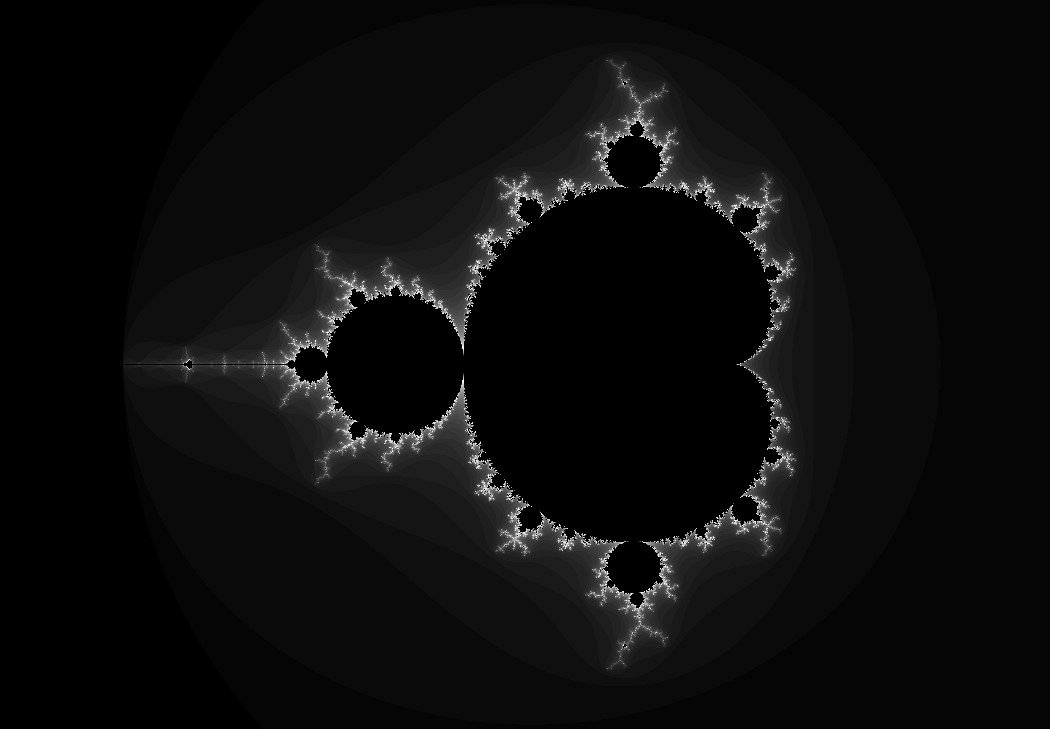
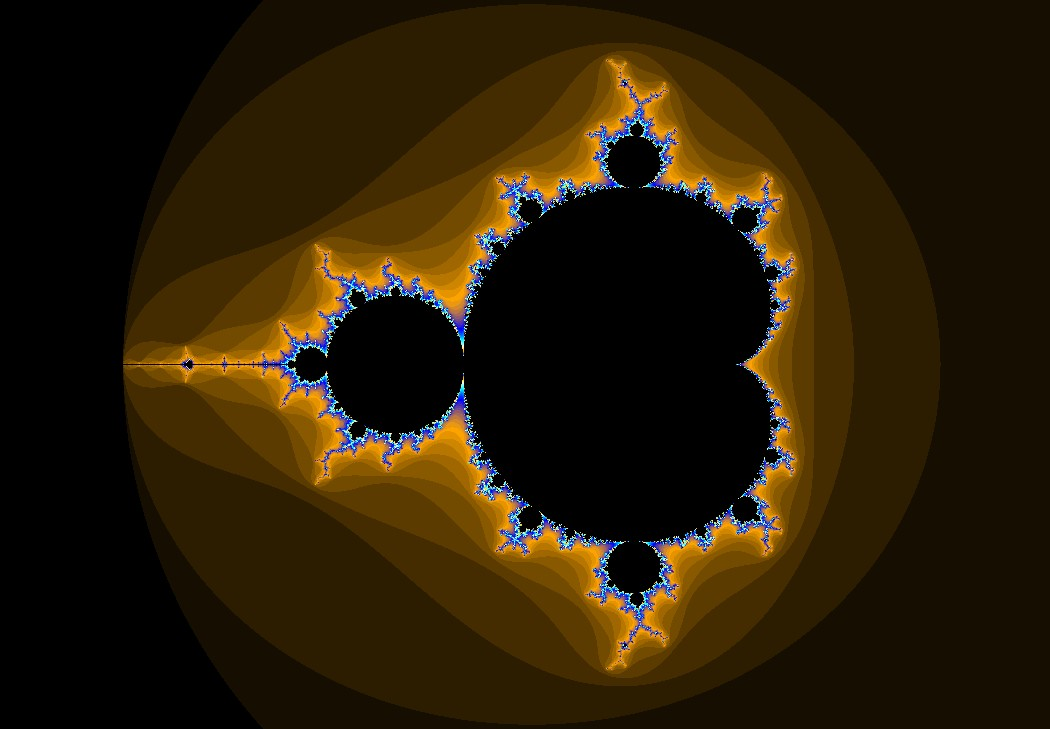
Change color scheme

diff --git a/MainWindow.xaml.cs b/MainWindow.xaml.cs
@@ -35,10 +35,6 @@ namespace FractalViewer {
 
         private int newImageMaxSide = 1000;
 
-        Color backgroundColor = Colors.Black;
-        Color middleColor = Colors.White;
-        Color setColor = Colors.Black;
-
         public MainWindow() {
             InitializeComponent();
 
@@ -175,7 +171,7 @@ namespace FractalViewer {
                         iterations++;
                     }
 
-                    Color fractalColor = CalculateFractalColor(iterations, maxIterations);
+                    Color fractalColor = GetColor(iterations, maxIterations);
 
                     SetPixelColor(writableBitmap, i, j, fractalColor);
 
@@ -195,22 +191,49 @@ namespace FractalViewer {
 
             return ConvertWriteableBitmapToBitmapImage(writableBitmap);
         }
-        private Color CalculateFractalColor(int iterations, int maxIterations) {
-
-            double factor = (double)iterations / maxIterations;
-
-            Color interpolatedColor;
-
-            if (factor < 0.5) {
-                interpolatedColor = InterpolateColors(backgroundColor, middleColor, factor * 2);
-            }
-            else {
-                interpolatedColor = InterpolateColors(middleColor, setColor, (factor - 0.5) * 2);
+        public static Color GetColor(int iteration, int maxIterations) {
+            if (iteration == maxIterations) {
+                return Colors.Black;
             }
 
-            return interpolatedColor;
+            double t = (double)iteration / maxIterations;
+
+            //byte r = (byte)(9 * (1 - t) * t * t * t * 255);
+            //byte g = (byte)(15 * (1 - t) * (1 - t) * t * t * 255);
+            //byte b = (byte)(9 * (1 - t) * (1 - t) * (1 - t) * t * 255);
+
+            var colors = new[]
+            {
+                Colors.Black,
+
+                Colors.Orange,
+                Colors.Blue,
+                Colors.Cyan,
+                Colors.Snow,
+                Colors.Gold,
+                Colors.Orange,
+                Colors.Blue,
+                Colors.Cyan,
+                Colors.Snow,
+            };
+
+            for (int i = 0; i < colors.Length - 1; i++) {
+                if (t >= (double)i/(colors.Length - 1) && t <= (double)(i + 1) / (colors.Length - 1)) {
+
+                    double range = (double)(i + 1) / (colors.Length - 1) - (double)(i) / (colors.Length - 1);
+                    double localFactor = (t - (double)(i) / (colors.Length - 1)) / range;
+
+                    byte r = (byte)(colors[i].R + localFactor * (colors[i + 1].R - colors[i].R));
+                    byte g = (byte)(colors[i].G + localFactor * (colors[i + 1].G - colors[i].G));
+                    byte b = (byte)(colors[i].B + localFactor * (colors[i + 1].B - colors[i].B));
+
+                    return Color.FromRgb(r, g, b);
+                }
+
+            }
+
+            return Colors.Black;
         }
-
         private Color InterpolateColors(Color startColor, Color endColor, double factor) {
             byte r = InterpolateColorComponent(startColor.R, endColor.R, factor);
             byte g = InterpolateColorComponent(startColor.G, endColor.G, factor);

diff --git a/Classes/Complex.cs b/Classes/Complex.cs
@@ -18,6 +18,9 @@ namespace FractalViewer.Classes
         public static Complex operator +(Complex a, Complex b) {
             return new Complex(a.Real + b.Real, a.Imaginary + b.Imaginary);
         }
+        public static Complex operator -(Complex a, Complex b) {
+            return new Complex(a.Real - b.Real, a.Imaginary - b.Imaginary);
+        }
         public static Complex operator *(Complex a, Complex b) {
             return new Complex(a.Real * b.Real - a.Imaginary * b.Imaginary, a.Real * b.Imaginary + a.Imaginary * b.Real);
         }

diff --git a/README.md b/README.md
@@ -6,4 +6,4 @@ Mandelbrot set `Z^2 + C` is generated by default. You can change formula in the 
 
 You also can change image quality and colors in the code.
 
-![image.jpg](Images/FractalImage.jpg)
+![image.jpg](Images/FractalImage.png)
